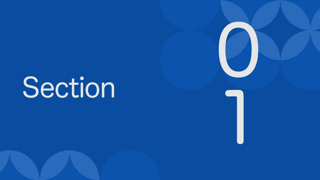
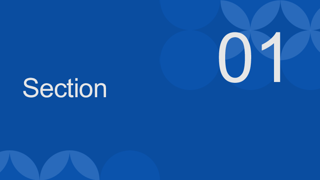
Verify blue section number with explicit private font fallback

Changed region(s): [[0.6562, 0.1111, 0.875, 0.8056], [0.0625, 0.4167, 0.375, 0.5556]]

diff --git a/tests/quality/fontconfig_fixture_test.go b/tests/quality/fontconfig_fixture_test.go
@@ -1,0 +1,39 @@
+package quality
+
+import (
+	"encoding/xml"
+	"os"
+	"testing"
+)
+
+func TestAptosFallbackRetainsOriginalFontPriority(t *testing.T) {
+	data, err := os.ReadFile("fixtures/fontconfig-aptos-fallback.conf")
+	if err != nil {
+		t.Fatal(err)
+	}
+	var config struct {
+		Aliases []struct {
+			Family string   `xml:"family"`
+			Accept []string `xml:"accept>family"`
+			Prefer []string `xml:"prefer>family"`
+		} `xml:"alias"`
+		Dirs     []string `xml:"dir"`
+		CacheDir []string `xml:"cachedir"`
+	}
+	if err := xml.Unmarshal(data, &config); err != nil {
+		t.Fatal(err)
+	}
+	if len(config.Aliases) != 2 || len(config.Dirs) != 0 || len(config.CacheDir) != 0 {
+		t.Fatalf("fallback fixture must contain only two aliases, no host paths: %+v", config)
+	}
+	want := map[string]bool{"Aptos": true, "Aptos Light": true}
+	for _, alias := range config.Aliases {
+		if !want[alias.Family] {
+			t.Fatalf("unexpected or duplicate original family %q", alias.Family)
+		}
+		delete(want, alias.Family)
+		if len(alias.Prefer) != 0 || len(alias.Accept) != 1 || alias.Accept[0] != "Arial" {
+			t.Fatalf("Arial must follow, not replace, installed %s: %+v", alias.Family, alias)
+		}
+	}
+}

diff --git a/tests/quality/fixtures/RENDER_FONTS.md b/tests/quality/fixtures/RENDER_FONTS.md
@@ -1,0 +1,24 @@
+# Private local rendering fonts
+
+Bundled headless LibreOffice on this Mac needs its supplied fontconfig file
+explicitly included in a private `FONTCONFIG_FILE`. Use the bundled executable,
+not desktop LibreOffice. Give the private configuration a writable cache and
+include this repository's `svggen/fonts` directory to expose its bundled faces.
+Do not install fonts globally or change template font names to repair a renderer
+environment.
+
+If Aptos is unavailable, include `fontconfig-aptos-fallback.conf` in that private
+configuration. It keeps an installed original first and explicitly falls back to
+Arial. The fallback is not native Aptos fidelity. The observed uncontrolled
+fallback was HiraMaruPro-W4, which broke the blue section identifier into two
+lines. The same unchanged PPTX rendered joined `01` using ArialMT with this
+fallback.
+
+Record the configuration hash, actual PDF fonts, source/template hashes and
+reviewed images in the render receipt. Use a fresh preview cache directory after
+changing font configuration: the existing source cache key does not include
+fontconfig. A prior review does not approve changed pixels. Verify all layouts,
+then review only pixel-changed originals; preserve the previous raw reviews.
+
+This configuration applies to visual evidence, not to generation or template
+conformance. Local test inventory must still include gitignored `p-style.pptx`.
